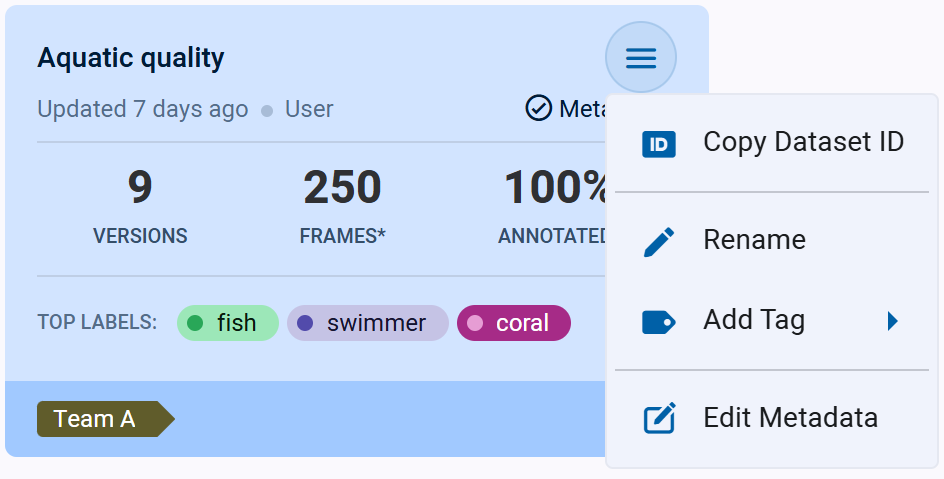
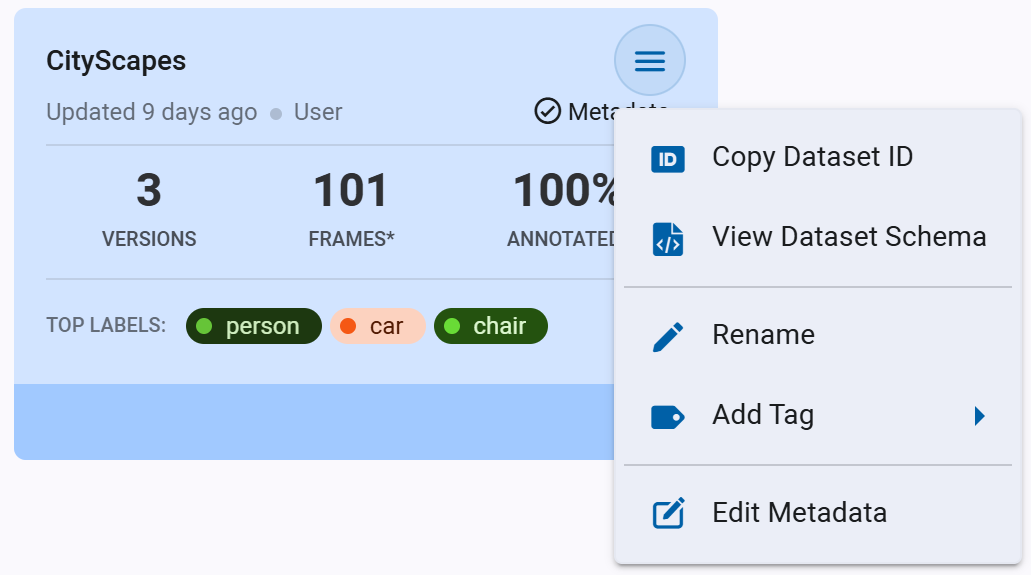
Add dataset schema display

diff --git a/docs/hyperdatasets/webapp/webapp_datasets_frames.md b/docs/hyperdatasets/webapp/webapp_datasets_frames.md
@@ -22,6 +22,18 @@ and frame metadata, as well as view frame masks of your dataset version frames.
 ![Frame viewer](../../img/hyperdatasets/dataset_example_frame_editor.png#light-mode-only)
 ![Frame viewer](../../img/hyperdatasets/dataset_example_frame_editor_dark.png#dark-mode-only)
 
+### Viewing FrameGroup Data
+
+FrameGroup information is organized across several panels in the Frame Viewer: 
+* **FrameGroup Details** – Displays all FrameGroup details except metadata. The details include: general fields (e.g. 
+  `context_id`, dataset ID and version, timestamp, etc.) as well as annotation (e.g. `rois`, their `labels`, `confidence`, etc.) 
+  * Click <img src="/docs/latest/icons/ico-metadata.svg" alt="edit metadata" className="icon size-md space-sm" /> to view the details in a larger window. 
+  * Click <img src="/docs/latest/icons/ico-code-file.svg" alt="view schema" className="icon size-md space-sm" /> to view the dataset's frame document schema. This covers all possible fields in the dataset
+* **FrameGroup Metadata** – Displays FrameGroup-level metadata. Displays only the contents of the `frame.meta` field—typically used for structured metadata or custom key-value data.
+  * Click <img src="/docs/latest/icons/ico-metadata.svg" alt="edit metadata" className="icon size-md space-sm" /> to modify the metadata field.
+* **Annotations** - Review and modify frame annotations. For more information, see [Masks](#masks) and [Annotations](#annotations).
+
+
 ### Frame Viewer Controls
 
 Use frame viewer controls to navigate between frames in a Hyper-Dataset Version, and control frame changes and viewing.
@@ -113,7 +125,7 @@ If an annotation applies to all frames in a FrameGroup, it is displayed with a `
 
 </div>
 
-## Masks 
+## Masks
 
 Use the **MASKS** panel to select which masks to apply over the frame. 
 

diff --git a/docs/hyperdatasets/webapp/webapp_datasets.md b/docs/hyperdatasets/webapp/webapp_datasets.md
@@ -84,6 +84,8 @@ of a dataset card to open its context menu and access dataset actions:
 
 </div>
 
+* **Copy Dataset ID**
+* **View Dataset Schema** - View the dataset's frame document schema. This shows the frames’ fields and their types.
 * **Rename** - Change the dataset's name
 * **Add Tag** - Add label to the dataset to help easily classify groups of datasets.
 * **Edit Metadata** - Modify dataset-level metadata. This will open the metadata edit window, where you can edit the section
